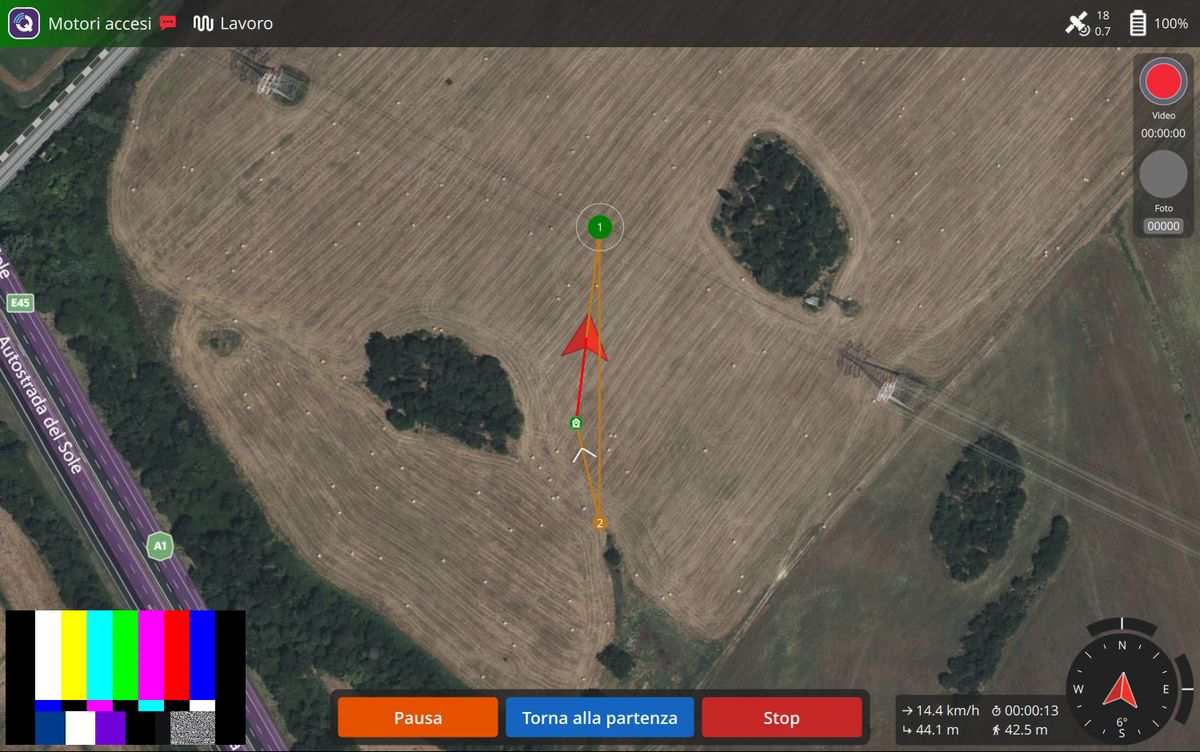
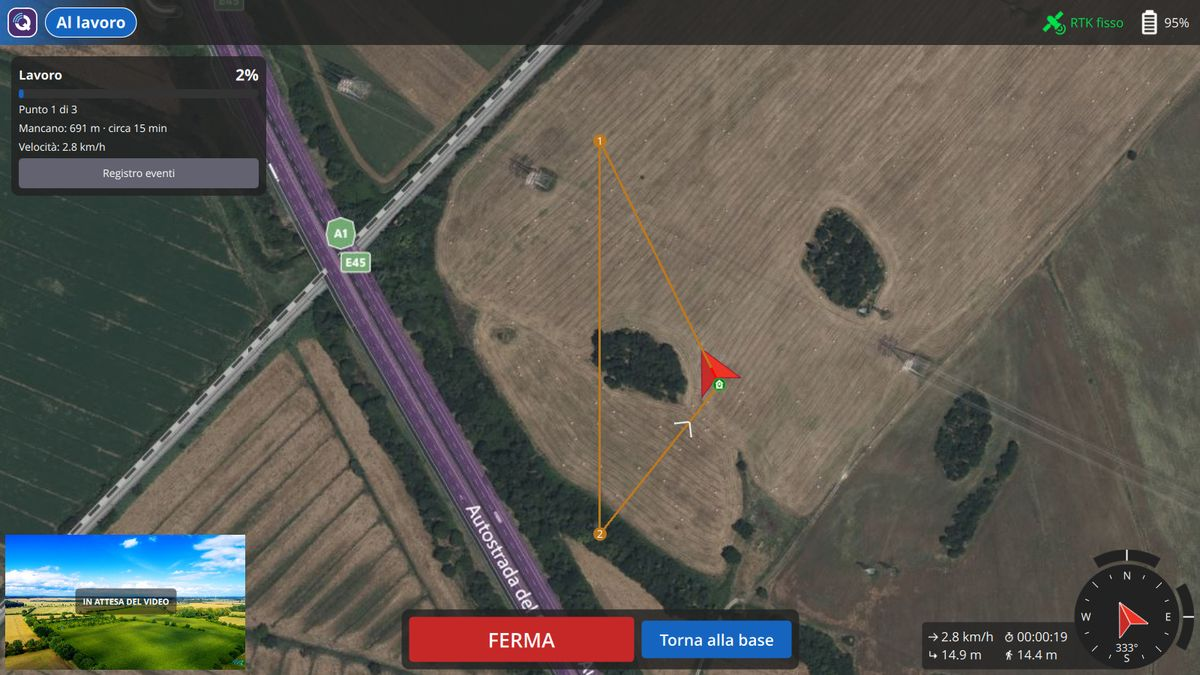
docs(medea): rover states, Stop button, job progress and notices
Operator guide: the coloured rover states, the position indicator, the job
panel and event log, Stop / Resume / Return to base / End work, the notices
(emergency stop, fault, job completed or not) and the related common problems;
the dashboard runs on a PC. Technician guide: buttons and MAVLink commands,
custom_mode and system_status of the eight states, how progress and outcome are
computed, testing the notices with the fake rover. New screenshots and
changelog entry with the reasons.

diff --git a/docs/medea/guida-operatore.md b/docs/medea/guida-operatore.md
@@ -9,43 +9,58 @@ avviarlo e seguirlo. Non servono conoscenze di informatica o di ROS.
 
 ## Prima di tutto: la sicurezza
 
-- **La dashboard non è l'arresto di emergenza.** Per fermare subito il rover usa il pulsante di
-  arresto di emergenza del rover (o del radiocomando), come indicato dal CREA.
+- **La dashboard non è l'arresto di emergenza.** In caso di pericolo premi il **fungo di emergenza**
+  sul rover: toglie corrente ai motori senza passare dal WiFi. Il pulsante **FERMA** della dashboard
+  ferma il rover, ma il comando viaggia sulla rete e potrebbe arrivare in ritardo.
 - Prima di avviare un lavoro controlla che nell'area non ci siano persone o animali, che il rover sia
   in vista e che la batteria sia carica.
 
 ## Avviare il programma
 
-Apri **QGroundControl** dall'icona sul desktop o sul tablet. Si apre la schermata **Guida**, con la
+Apri **QGroundControl** dall'icona sul desktop del computer. Si apre la schermata **Guida**, con la
 mappa. Quando il rover è acceso e collegato alla rete, il programma si collega da solo.
 
 ## La schermata Guida
 
-![Schermata Guida con il rover collegato e un lavoro caricato](img/operatore-guida.jpg)
+![Schermata Guida con il rover al lavoro](img/operatore-guida.jpg)
 
-*Nell'immagine il rover è simulato e il video a barre colorate è un'immagine di prova.*
+*Nell'immagine il rover è simulato.*
 
 1. **Pulsante Q** (in alto a sinistra): apre il menu.
-2. **Stato del rover**, accanto alla Q:
-   - *Disconnesso*: il rover non è collegato;
-   - *Pronto*: il rover è collegato, con i motori spenti;
-   - *Motori accesi*: il rover lavora, è in pausa o sta tornando.
+2. **Stato del rover**, il riquadro colorato accanto alla Q. Serve solo da leggere:
 
-   Più a destra c'è la **modalità**: *Fermo*, *Lavoro*, *Pausa*, *Rientro*, *Manuale* (guidato con il
-   radiocomando) o *Emergenza*. Stato e modalità servono solo da leggere: toccarli non apre niente.
-3. **Indicatori** (in alto a destra): GPS (numero di satelliti e precisione) e **batteria** in
-   percentuale. Tocca un indicatore per vedere i dettagli.
-4. **Mappa**: la freccia rossa è il rover; la linea arancione con i numeri è il lavoro caricato sul
+   | Stato | Colore | Cosa vuol dire |
+   | --- | --- | --- |
+   | *Non collegato* | grigio | La dashboard non riceve dati dal rover. |
+   | *Avvio in corso* | grigio | Il rover si sta accendendo: aspetta. |
+   | *Pronto* | verde | Il rover è fermo e può ricevere un lavoro. |
+   | *Al lavoro* | blu | Il rover sta eseguendo il lavoro. |
+   | *In pausa* | giallo | Il rover è fermo con i motori spenti; il lavoro è sospeso e si può riprendere. |
+   | *Rientro* | blu | Il rover torna al punto di partenza. |
+   | *Guida manuale* | viola | Il rover è guidato a mano (joystick o radiocomando). |
+   | *Guasto* | arancione | Qualcosa non funziona: l'avviso al centro dice cosa. |
+   | *Arresto di emergenza* | rosso | È stato premuto il fungo o è scattata una sicurezza. |
+
+3. **Indicatori** (in alto a destra):
+   - **posizione**: *RTK fisso* (verde, la precisione giusta per lavorare), *RTK float* (giallo,
+     aspetta che diventi fisso), *GPS senza RTK* (arancione, precisione di qualche metro), *Nessuna
+     posizione* (rosso);
+   - **batteria** in percentuale (se il rover ne ha due, quella più scarica).
+4. **Riquadro del lavoro** (in alto a sinistra), quando sul rover c'è un lavoro: percentuale fatta,
+   punto verso cui va il rover (*Punto 3 di 12*), quanto manca in metri e in minuti, velocità in km/h.
+   **Registro eventi** apre, nello stesso riquadro, l'elenco dei messaggi del rover con l'ora (i più
+   recenti in alto); i pulsanti in basso restano utilizzabili.
+5. **Mappa**: la freccia rossa è il rover; la linea arancione con i numeri è il lavoro caricato sul
    rover; il numero verde è il punto verso cui il rover sta andando; la linea rossa è il tragitto già
    fatto; la casetta verde è il punto di partenza.
-5. **Video** della camera (in basso a sinistra). Tocca il riquadro per scambiare video e mappa.
+6. **Video** della camera (in basso a sinistra). Tocca il riquadro per scambiare video e mappa.
    *IN ATTESA DEL VIDEO* vuol dire che la camera non sta inviando immagini.
-6. **Valori** (in basso a destra): velocità, distanza dal punto di partenza, tempo di lavoro, distanza
+7. **Valori** (in basso a destra): velocità, distanza dal punto di partenza, tempo di lavoro, distanza
    percorsa; accanto c'è la bussola.
-7. **Pulsanti del rover** (in basso al centro): compaiono solo quelli utili in quel momento, vedi
+8. **Pulsanti del rover** (in basso al centro): compaiono solo quelli utili in quel momento, vedi
    [Eseguire il lavoro](#eseguire-il-lavoro).
-8. **Pulsante rosso** (in alto a destra): registra il video sul computer; *Foto* ne salva
-   un'immagine.
+9. **Avvisi** (al centro, in alto): arresto di emergenza, guasto, lavoro completato o non completato,
+   vedi [Avvisi](#avvisi).
 
 ## Il menu
 
@@ -153,37 +168,58 @@ segnato con un punto interrogativo rosso. Di solito manca da disegnare il percor
 
 ## Eseguire il lavoro
 
-![I pulsanti del rover: da fermo, durante il lavoro e in pausa](img/operatore-pulsanti.jpg)
+![I pulsanti del rover: pronto, al lavoro e in pausa](img/operatore-pulsanti.jpg)
 
 1. Dopo **Carica sul veicolo** sei già nella schermata **Guida** (altrimenti: menu → **Guida**).
-   Controlla sulla mappa che la linea arancione sia il lavoro giusto.
-2. Premi **Avvia lavoro** e conferma con **Sì**. Il rover si mette in moto da solo: lo stato diventa
-   *Motori accesi* e la modalità *Lavoro*. Segui il lavoro sulla mappa e nel video.
+   Controlla sulla mappa che la linea arancione sia il lavoro giusto e che lo stato sia *Pronto*.
+2. Premi **Avvia lavoro** e conferma con **Sì**. Il rover si mette in moto da solo e lo stato diventa
+   *Al lavoro*. Segui il lavoro sulla mappa, nel riquadro del lavoro e nel video.
 3. Durante il lavoro i pulsanti in basso sono:
-   - **Pausa**: il rover si ferma e aspetta (modalità *Pausa*). **Riprendi** lo fa ripartire da dove si
-     era fermato;
-   - **Torna alla partenza** (chiede conferma): il rover interrompe il lavoro, torna al punto di
-     partenza (modalità *Rientro*) e si ferma;
-   - **Stop**: il rover si ferma subito, spegne i motori e il lavoro finisce. *Avvia lavoro* lo rifà
-     dall'inizio.
-4. Finito il lavoro il rover torna alla partenza e si ferma: modalità *Fermo*, stato *Pronto*. Il lavoro
-   resta sul rover: per ripeterlo basta premere di nuovo **Avvia lavoro**.
+   - **FERMA** (rosso, il più grande): il rover si ferma subito e spegne i motori. Il lavoro **non** si
+     perde: resta sospeso (*In pausa*);
+   - **Torna alla base** (chiede conferma): il rover interrompe il lavoro, torna al punto di partenza
+     (*Rientro*) e si ferma.
+4. Quando il rover è *In pausa* i pulsanti sono:
+   - **Riprendi**: il rover riparte da dove si era fermato;
+   - **Torna alla base**: come sopra;
+   - **Termina lavoro** (chiede conferma): il lavoro viene chiuso e non si può più riprendere, solo
+     ricominciare da capo con *Avvia lavoro*. Il rover resta dov'è.
+5. Finito il lavoro il rover si ferma (*Pronto*) e compare l'avviso verde **Lavoro completato**. Il
+   lavoro resta sul rover: per ripeterlo basta premere di nuovo **Avvia lavoro**.
 
 Se il rover non può eseguire un comando, in alto compare un riquadro giallo con il motivo, per esempio
 *Avvia lavoro: nessun lavoro caricato*. Toccalo per chiuderlo.
 
-Pausa e Stop agiscono subito, senza conferma, perché fermano il rover. **Stop non è l'arresto di
-emergenza**: in caso di pericolo usa il pulsante di emergenza sul rover.
+**FERMA** agisce subito, senza conferma, ed è l'unico modo di fermare il rover dalla dashboard: non fa
+mai perdere il lavoro. **Non è l'arresto di emergenza**: in caso di pericolo premi il fungo sul rover.
+
+### Avvisi
+
+![Avvisi: arresto di emergenza, lavoro non completato, lavoro completato](img/operatore-avvisi.jpg)
+
+- **Arresto di emergenza** (rosso): è stato premuto il fungo o è scattata una sicurezza. Il rover è
+  fermo e la dashboard non mostra pulsanti: controlla il rover e sblocca il fungo a bordo. La dashboard
+  non può riattivarlo.
+- **Guasto** (arancione): il rover segnala un problema e dice quale, per esempio *Guasto: il GPS non
+  risponde*. Chiama il tecnico.
+- **Lavoro completato** (verde) e **Lavoro non completato** (rosso, con il motivo): restano finché non
+  premi **Chiudi**. Un lavoro interrotto da un arresto di emergenza o da un guasto non si riprende: va
+  avviato di nuovo.
 
 ## Problemi comuni
 
 | Cosa vedi | Cosa fare |
 | --- | --- |
-| *Disconnesso - Clicca per connetterti manualmente* | Il rover non è collegato. Controlla che sia acceso e che il computer o il tablet sia sulla rete del rover. Se il problema resta, chiama il tecnico. |
+| *Non collegato* | Il rover non è collegato. Controlla che sia acceso e che il computer sia sulla rete del rover. Se il problema resta, chiama il tecnico. |
+| *Avvio in corso* per più di qualche minuto | Il rover non riesce ad avviarsi: chiama il tecnico. |
+| *Arresto di emergenza* | Controlla il rover, poi sblocca il fungo a bordo. Il lavoro interrotto va avviato di nuovo. |
+| *Guasto* | Leggi l'avviso e chiama il tecnico. |
+| *Guida manuale* | Qualcuno sta guidando il rover a mano: la dashboard non mostra pulsanti finché la guida manuale non finisce. |
+| *RTK float* o *GPS senza RTK* | La posizione non è abbastanza precisa: aspetta qualche minuto all'aperto prima di avviare il lavoro. |
 | *IN ATTESA DEL VIDEO* | La camera non invia immagini. Controlla che sia accesa; se il problema resta, chiama il tecnico. |
 | *Il piano ha elementi incompleti* | Finisci di disegnare l'elemento segnato con il punto interrogativo rosso. |
 | *Nessun lavoro sul rover* (sopra i pulsanti) o *nessun lavoro caricato* | Prepara il lavoro e caricalo: *Pianifica* → **Carica sul veicolo**. |
-| Riquadro giallo con un messaggio del rover | Leggi il motivo: il rover non ha eseguito il comando. Toccalo per chiuderlo. |
+| Riquadro giallo con un messaggio del rover | Leggi il motivo: il rover non ha eseguito il comando o segnala un problema. Toccalo per chiuderlo. |
 | *il rover non ha risposto* o *Il rover non è collegato* | Controlla che il rover sia acceso e in rete, poi riprova. Se il problema resta, chiama il tecnico. |
 | Avviso sulla distanza dal bordo (Perimetro) | Riduci la *Distanza dal bordo*. |
 | La batteria diventa rossa | Fai rientrare il rover e ricaricalo. |

diff --git a/docs/medea/guida-tecnico.md b/docs/medea/guida-tecnico.md
@@ -104,7 +104,12 @@ gst-launch-1.0 videotestsrc is-live=true \
   ! rtspclientsink location=rtsp://127.0.0.1:8554/camera
 ```
 
-## Collegamento con il rover (bridge Kafka)
+## Collegamento con il rover (bridge)
+
+> **In transizione (26/10/2026).** La dashboard non passerà più da Kafka: il bridge diventerà un nodo
+> ROS 2 ↔ MAVLink sul computer della dashboard e farà anche la gestione del lavoro (piano in
+> `docs/piano-dashboard.md` del repository `medea_hmi`). Questa sezione descrive la versione attuale,
+> ancora con Kafka; il lato MAVLink, cioè quello che vede QGroundControl, resta lo stesso.
 
 Il rover pubblica i suoi dati su Kafka; QGroundControl parla solo MAVLink. In mezzo c'è il **bridge**
 (`medea-bridge`), un programma Python del repository `medea_hmi` (cartella `src/medea_bridge`, con
@@ -121,13 +126,14 @@ proposto per i messaggi è in `src/medea_bridge/PROTOCOLLO.md`.
 
 Cosa si vede in QGroundControl:
 
-- se la telemetria del rover si interrompe per più di 3 s, il rover risulta *Disconnesso*;
-- la modalità del rover ha nomi italiani: *Fermo*, *Lavoro*, *Pausa*, *Rientro*, *Manuale*, *Emergenza*;
+- se la telemetria del rover si interrompe per più di 3 s, il rover risulta *Non collegato*;
+- lo stato del rover (la modalità MAVLink) ha nomi italiani: *Pronto*, *Al lavoro*, *In pausa*,
+  *Rientro*, *Guida manuale*, *Arresto di emergenza*, *Avvio in corso*, *Guasto*;
 - se il rover rifiuta un comando, il motivo compare in un riquadro giallo in alto (il bridge lo invia
   come messaggio di errore del veicolo). Se non risponde in tempo il messaggio è *il rover non ha
   risposto*.
 
-### Pulsanti del rover
+### Pulsanti, stato e avanzamento del rover
 
 Un rover MAVLink con autopilota generico (`MAV_AUTOPILOT_GENERIC`), come quello presentato dal bridge,
 usa il **FirmwarePlugin del rover MEDEA** (`src/FirmwarePlugin/MedeaRover/`). Per l'operatore la
@@ -135,19 +141,49 @@ schermata Guida ha allora solo i pulsanti grandi in basso, mostrati secondo lo s
 
 | Pulsante | Quando compare | Comando MAVLink | Al rover |
 | --- | --- | --- | --- |
-| Avvia lavoro (con conferma) | rover fermo, attivo se c'è un lavoro caricato | `MAV_CMD_MISSION_START` | `start_mission` |
-| Pausa | lavoro o rientro in corso | `MAV_CMD_DO_PAUSE_CONTINUE` (0) | `pause` |
-| Riprendi | in pausa | `MAV_CMD_DO_PAUSE_CONTINUE` (1) | `resume` |
-| Torna alla partenza (con conferma) | sempre, tranne durante il rientro | `MAV_CMD_NAV_RETURN_TO_LAUNCH` | `return_home` |
-| Stop | motori accesi | `MAV_CMD_COMPONENT_ARM_DISARM` (0) | `stop` |
+| Avvia lavoro (con conferma) | *Pronto*, attivo se c'è un lavoro caricato | `MAV_CMD_MISSION_START` | `start_mission` |
+| **FERMA** | *Al lavoro*, *Rientro* | `MAV_CMD_DO_PAUSE_CONTINUE` (0) | `pause` (si ferma, motori spenti, lavoro sospeso) |
+| Riprendi | *In pausa* | `MAV_CMD_DO_PAUSE_CONTINUE` (1) | `resume` |
+| Torna alla base (con conferma) | *Pronto*, *Al lavoro*, *In pausa* | `MAV_CMD_NAV_RETURN_TO_LAUNCH` | `return_home` |
+| Termina lavoro (con conferma) | *In pausa* | `MAV_CMD_COMPONENT_ARM_DISARM` (0) | `stop` (chiude il lavoro) |
 
+- *FERMA* è l'unico stop della dashboard e non fa perdere il lavoro; *Termina lavoro* è lo STOP delle
+  regole operative del CREA. L'arresto di emergenza è solo il fungo elettrico sul rover.
 - Il rover si arma da solo quando parte: non c'è un passo "arma" separato.
-- Le modalità sono riconosciute dal numero (custom_mode 1-6: Fermo, Lavoro, Pausa, Rientro, Manuale,
-  Emergenza) e mostrate con i nomi tradotti di QGroundControl; i nomi in `bridge.yaml` non vengono
-  usati.
+- Gli stati sono le modalità MAVLink, riconosciute dal numero (custom_mode) e mostrate con i nomi
+  tradotti di QGroundControl; i nomi in `bridge.yaml` non vengono usati:
+
+  | custom_mode | Stato | Selezionabile | `HEARTBEAT.system_status` |
+  | --- | --- | --- | --- |
+  | 1 | Pronto | sì | STANDBY |
+  | 2 | Al lavoro | sì | ACTIVE |
+  | 3 | In pausa | sì | ACTIVE / STANDBY |
+  | 4 | Rientro | sì | ACTIVE |
+  | 5 | Guida manuale | no | ACTIVE / STANDBY |
+  | 6 | Arresto di emergenza | no | EMERGENCY |
+  | 7 | Avvio in corso | no | BOOT |
+  | 8 | Guasto | no | CRITICAL |
+
+- Lo **stato** (pillola colorata in alto), l'**avanzamento** (riquadro in alto a sinistra) e gli
+  **avvisi** (al centro) vengono da `MedeaRoverJobStatus` (C++, nello stesso FirmwarePlugin):
+  - l'avanzamento è la distanza percorsa lungo il lavoro caricato sul rover, dalla posizione di partenza
+    (*home*) al punto in corso (`MISSION_CURRENT.seq`), sulla lunghezza totale. Il tempo rimanente usa
+    la velocità media dell'ultimo minuto (all'inizio la velocità di crociera delle impostazioni,
+    2,8 km/h);
+  - lo stato del lavoro viene da `MISSION_CURRENT.mission_state`: *Lavoro completato* quando passa da
+    attivo/in pausa a COMPLETE; *Lavoro non completato* se durante il lavoro il rover va in *Arresto di
+    emergenza* o *Guasto* (con l'ultimo messaggio di errore del rover come motivo);
+  - l'avviso di *Guasto* riporta l'ultimo `STATUSTEXT` di gravità *error* o superiore.
+- L'indicatore di posizione dice *RTK fisso*, *RTK float*, *GPS senza RTK* o *Nessuna posizione*
+  (da `GPS_RAW_INT.fix_type`); in modalità avanzata il tocco apre la pagina GPS di QGroundControl.
+- Con due pacchi batteria il bridge invia due `BATTERY_STATUS` (id 0 e 1): l'indicatore mostra il più
+  scarico, il dettaglio è nella pagina della batteria (modalità avanzata).
+- In modalità operatore sono nascosti il pulsante rosso di registrazione video (sembrava un arresto di
+  emergenza; la registrazione è un compito del tecnico) e la modalità accanto allo stato (è la stessa
+  informazione).
 - Per questo rover sono spenti i comandi guidati generici di QGroundControl (*Avvia missione*,
   *Continua missione*, *Rientra*, *Vai qui*, arma/disarma) e la finestra *Piano completato*: il lavoro
-  resta sul rover per essere ripetuto. Nella barra in alto restano solo GPS e batteria.
+  resta sul rover per essere ripetuto.
 - Dopo un caricamento riuscito dalla Plan View il programma passa da solo alla schermata Guida.
 
 Il file di *MAVLink Actions* `src/medea_bridge/qgc/MavlinkActions/medea-rover.json` (stessi comandi,
@@ -224,8 +260,16 @@ solo estetico.
 ## Prove senza rover
 
 Con il **rover finto** del bridge si prova tutta la catena: Kafka, bridge, QGroundControl, lavori e
-comandi. Il rover finto esegue davvero i lavori caricati, a 1,5 m/s (`--speed` per cambiare), e
-finito il lavoro torna alla partenza. Comandi (dettagli nel `README.md` di `src/medea_bridge`):
+comandi. Il rover finto esegue davvero i lavori caricati, a 2,8 km/h come il rover vero (`--speed`
+in m/s per cambiare, per esempio `--speed 4` per prove veloci), e finito il lavoro torna alla partenza.
+All'accensione resta 8 s in *Avvio in corso* (`--startup-s`). Per provare gli avvisi:
+
+```bash
+kill -USR1 $(pgrep -f "[m]edea-fake-rover")   # preme o sblocca il fungo di emergenza
+kill -USR2 $(pgrep -f "[m]edea-fake-rover")   # inizia o risolve un guasto (il GPS non risponde)
+```
+
+Avvio (dettagli nel `README.md` di `src/medea_bridge`):
 
 ```bash
 cd ~/workspace/src/medea_bridge

diff --git a/docs/medea/CHANGELOG.md b/docs/medea/CHANGELOG.md
@@ -22,6 +22,58 @@ Guide d'uso: [guida per l'operatore](guida-operatore.md), [guida per il tecnico]
 
 ---
 
+## 2026-10-26
+
+### Schermata Guida del rover: stati, FERMA, avanzamento e avvisi
+
+**Cosa.**
+
+- **Stati del rover** (FirmwarePlugin MEDEA): le modalità diventano gli stati macchina delle regole
+  operative del CREA, con nomi pensati per l'operatore: *Pronto*, *Al lavoro*, *In pausa*, *Rientro*,
+  *Guida manuale*, *Arresto di emergenza* (prima *Fermo*, *Lavoro*, *Pausa*, *Manuale*, *Emergenza*) e
+  due nuovi, non selezionabili: *Avvio in corso* (custom_mode 7) e *Guasto* (8).
+- **Barra in alto:** lo stato del rover è una pillola colorata (grigio, verde, blu, giallo, viola,
+  arancione, rosso) al posto di *Pronto/Motori accesi* + modalità; in modalità operatore la modalità non
+  è più ripetuta accanto. L'indicatore GPS diventa **indicatore di posizione** a parole: *RTK fisso*,
+  *RTK float*, *GPS senza RTK*, *Nessuna posizione* (`RoverPositionIndicator.qml`).
+- **Pulsanti** (`RoverJobControls.qml`): **FERMA** (rosso, il più grande) al posto di *Pausa* e *Stop*:
+  ferma il rover e spegne i motori, il lavoro resta sospeso. Da *In pausa*: **Riprendi**, **Torna alla
+  base** e **Termina lavoro** (con conferma; è lo STOP delle regole operative, chiude il lavoro). In
+  *Avvio in corso* e *Guida manuale* compare solo una spiegazione; in *Guasto* e *Arresto di emergenza*
+  nessun pulsante.
+- **Riquadro del lavoro** (`RoverJobPanel.qml`, in alto a sinistra): percentuale e barra di
+  avanzamento, punto in corso (*Punto 3 di 12*), distanza e tempo che mancano, velocità in km/h,
+  pulsante **Registro eventi** (i messaggi del rover con l'ora). Il registro si apre dentro il riquadro e
+  non in una finestra modale, così **FERMA** resta raggiungibile mentre il rover si muove.
+- **Avvisi** (`RoverStatusBanner.qml`, al centro): *Arresto di emergenza* e *Guasto* (con il motivo)
+  finché durano; *Lavoro completato* e *Lavoro non completato* (con il motivo) finché l'operatore non
+  li chiude o non carica un altro lavoro.
+- Nuovo `MedeaRoverJobStatus` (C++, `QML_ELEMENT`, un'istanza nella Fly View esposta in
+  `globals.roverJobStatusFlyView`): stato macchina, colore, avanzamento sul lavoro caricato (dalla
+  posizione di partenza al punto di `MISSION_CURRENT`), tempo rimanente con la velocità media
+  dell'ultimo minuto, esito del lavoro da `MISSION_CURRENT.mission_state`.
+- **Modalità operatore:** nascosto il pulsante rosso di registrazione video della Fly View.
+- **Velocità di crociera** predefinita per le statistiche: 0,78 m/s (2,8 km/h, la velocità delle
+  lavorazioni in campo), minimo 0,1 m/s.
+- **Test:** nuovo `MedeaRoverJobStatusTest` (stati, distanza percorsa lungo il lavoro);
+  `MedeaRoverFirmwarePluginTest` aggiornato per gli 8 stati.
+
+**Perché.** Dopo la chiamata con S. Figorilli (CREA) la dashboard segue gli stati macchina e gli stati
+della missione delle sue regole operative, e la gestione del lavoro passa alla dashboard (piano in
+`docs/piano-dashboard.md` del repository `medea_hmi`):
+
+- l'operatore deve capire a colpo d'occhio cosa fa il rover: prima c'erano due indicazioni (stato e
+  modalità) con parole tecniche, ora un solo stato colorato;
+- un solo modo di fermare il rover, che non fa mai perdere il lavoro: con *Pausa* e *Stop* affiancati
+  era facile chiudere il lavoro per sbaglio;
+- l'arresto di emergenza è il fungo elettrico: la dashboard lo mostra e spiega cosa fare, ma non lo
+  comanda; il pulsante rosso rotondo della registrazione si poteva scambiare per un arresto;
+- avanzamento in percentuale e lavoro completato/non completato sono richiesti esplicitamente dalle
+  regole operative;
+- satelliti e HDOP non dicono niente a un agricoltore; "RTK fisso" sì.
+
+---
+
 ## 2026-10-20
 
 ### Pulsanti del rover nella schermata Guida (FirmwarePlugin MEDEA)
